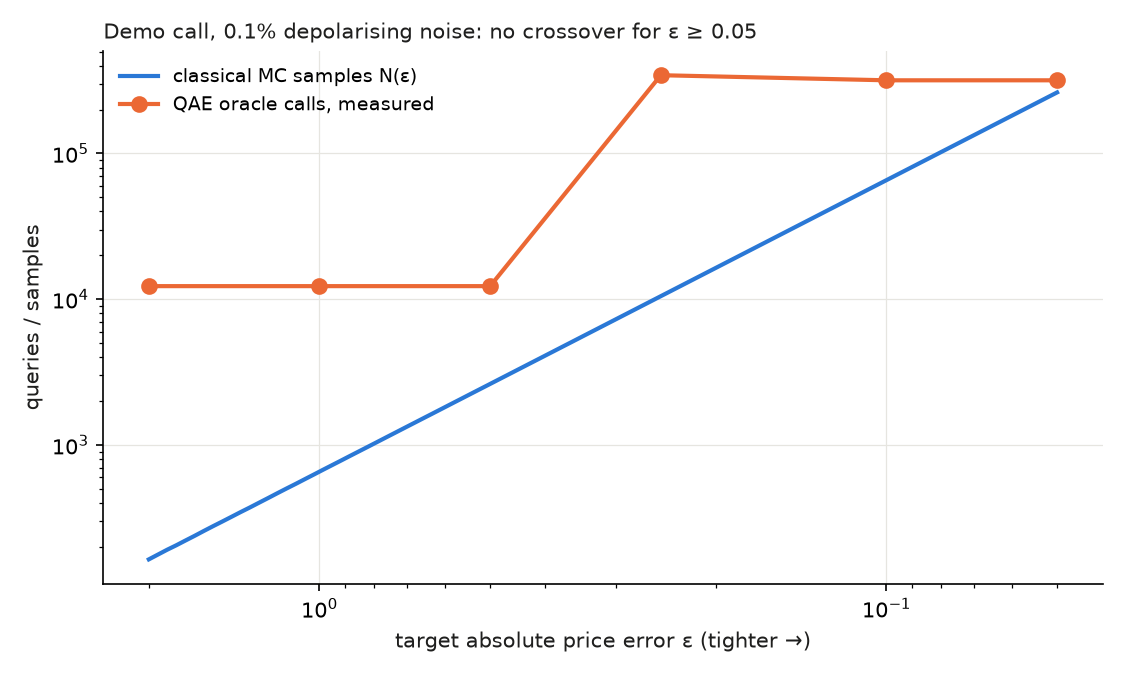
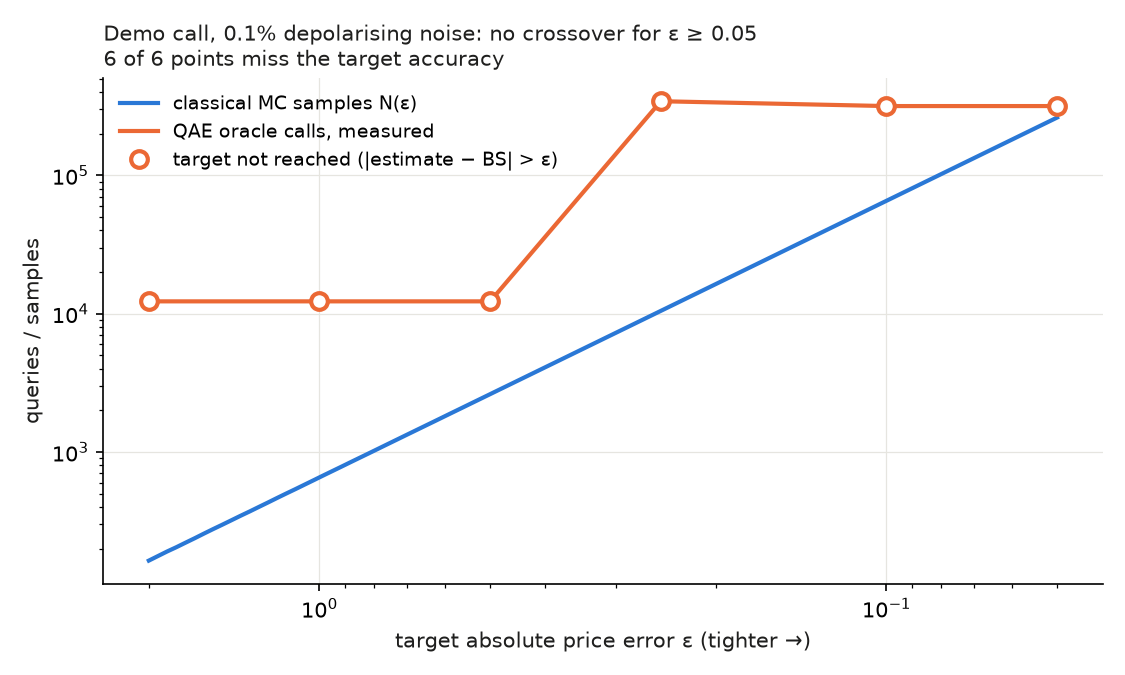
docs: mark crossover points that miss the target accuracy
Rerun the noisy-IAE grid recording estimate, CI, rounds and Grover powers.
IAE hit no cap: it stopped on its own CI criterion, and eps=0.1 and 0.05
share the same 3-round schedule (max power 149), hence identical 317,440
calls. Every point misses its target: |estimate - Black-Scholes| ~ 3.84
while the reported CI is +/-0.35 or tighter. Hollow markers and caption
flag this; the Key finding gains one bullet. Cache now written with LF.

diff --git a/scripts/crossover_figure.py b/scripts/crossover_figure.py
@@ -14,6 +14,7 @@ import csv
 import math
 import sys
 from pathlib import Path
+from typing import Any
 
 import matplotlib
 
@@ -21,8 +22,9 @@ matplotlib.use("Agg")
 import matplotlib.pyplot as plt  # noqa: E402
 import numpy as np  # noqa: E402
 
+import qrace.backend  # noqa: E402
 from qrace import AnalysisTarget, NoiseProfile, OptionSpec, QiskitBackend  # noqa: E402
-from qrace.classical import discounted_payoff_std  # noqa: E402
+from qrace.classical import discounted_payoff_std, reference_price  # noqa: E402
 from qrace.crossover import compute  # noqa: E402
 from qrace.pricing import build_problem  # noqa: E402
 
@@ -36,23 +38,58 @@ OPTION = OptionSpec(
 )
 
 
+class _RecordingIAE(qrace.backend.IterativeAmplitudeEstimation):  # type: ignore[misc]
+    """Keeps the last raw IAE result so the Grover power schedule can be cached."""
+
+    last: Any = None
+
+    def estimate(self, estimation_problem: Any) -> Any:
+        _RecordingIAE.last = super().estimate(estimation_problem)
+        return _RecordingIAE.last
+
+
 def simulate() -> None:
     """Run noisy IAE at every epsilon and write the cache."""
+    # shortcut: script-local patch to read IAE internals; move into EstimationResult if reused
+    qrace.backend.IterativeAmplitudeEstimation = _RecordingIAE  # type: ignore[misc]
+    reference = reference_price(OPTION)
     noise = NoiseProfile(kind="depolarizing", two_qubit_error=0.001)
     backend = QiskitBackend(seed=7)
     pricing = build_problem(OPTION)
     sigma = discounted_payoff_std(OPTION)
     IMG.mkdir(parents=True, exist_ok=True)
     with CACHE.open("w", newline="") as f:
-        writer = csv.writer(f)
-        writer.writerow(["epsilon", "qae_oracle_calls", "mc_samples"])
+        writer = csv.writer(f, lineterminator="\n")
+        writer.writerow(
+            [
+                "epsilon",
+                "qae_oracle_calls",
+                "mc_samples",
+                "noisy_estimate",
+                "ci_half_width",
+                "abs_error_vs_reference",
+                "iae_rounds",
+                "max_grover_power",
+            ]
+        )
         for eps in EPSILONS:
             target = AnalysisTarget(target_abs_error=eps, confidence=CONFIDENCE)
-            calls = backend.run_estimation(pricing, noise, target).oracle_calls
+            res = backend.run_estimation(pricing, noise, target)
+            powers = _RecordingIAE.last.powers
             samples = compute(sigma, target).classical_mc_samples
-            writer.writerow([eps, calls, samples])
+            row = [
+                eps,
+                res.oracle_calls,
+                samples,
+                round(res.estimate, 4),
+                round(res.error, 4),
+                round(abs(res.estimate - reference), 4),
+                len(powers) - 1,
+                max(powers),
+            ]
+            writer.writerow(row)
             f.flush()
-            print(f"eps={eps:<5}  QAE oracle calls={calls:>7}  MC samples={samples:>7}")
+            print(dict(zip(["eps", "calls", "mc", "est", "ci", "abs_err", "rounds", "kmax"], row)))
 
 
 def plot() -> None:
@@ -73,14 +110,28 @@ def plot() -> None:
 
     fig, ax = plt.subplots(figsize=(7.5, 4.5), dpi=150)
     ax.loglog(dense, n_dense, color=BLUE, lw=2, label="classical MC samples N(ε)")
-    ax.loglog(
-        eps, quantum, color=ORANGE, lw=2, marker="o", ms=7, label="QAE oracle calls, measured"
-    )
+    missed = [float(r["abs_error_vs_reference"]) > e for r, e in zip(rows, eps, strict=True)]
+    ax.loglog(eps, quantum, color=ORANGE, lw=2, label="QAE oracle calls, measured")
+    hit = [(e, q) for e, q, m in zip(eps, quantum, missed, strict=True) if not m]
+    miss = [(e, q) for e, q, m in zip(eps, quantum, missed, strict=True) if m]
+    if hit:
+        ax.plot(*zip(*hit, strict=True), "o", color=ORANGE, ms=7, label="target accuracy reached")
+    if miss:
+        ax.plot(
+            *zip(*miss, strict=True),
+            "o",
+            mfc="white",
+            mec=ORANGE,
+            mew=2,
+            ms=8,
+            label="target not reached (|estimate − BS| > ε)",
+        )
     ax.invert_xaxis()  # tighter accuracy to the right
     ax.set_xlabel("target absolute price error ε (tighter →)", color=INK)
     ax.set_ylabel("queries / samples", color=INK)
     ax.set_title(
-        f"Demo call, 0.1% depolarising noise: no crossover for ε ≥ {min(eps):g}",
+        f"Demo call, 0.1% depolarising noise: no crossover for ε ≥ {min(eps):g}\n"
+        f"{sum(missed)} of {len(eps)} points miss the target accuracy",
         color=INK,
         fontsize=10,
         loc="left",

diff --git a/README.md b/README.md
@@ -4,12 +4,13 @@
 
 > ### Key finding
 > For a European call (S = 100, K = 105, T = 1y, σ = 20%) priced to ±0.5 at 95% confidence, **quantum amplitude estimation is not advantageous today**:
-> - it needs **12,288 oracle calls** against **2,622 classical Monte Carlo samples**;
+> - it spends **12,288 oracle calls** against **2,622 classical Monte Carlo samples**, and still misses the target;
 > - meeting the target would require a two-qubit gate fidelity of **0.999983**; with a 0.1% depolarising error the noisy estimate is **11.87 ± 0.35** against a Black-Scholes price of **8.02**;
+> - the noisy run never reaches its target accuracy: at every ε from 2 down to 0.05 the estimate sits **≈ 3.84** above Black-Scholes while IAE reports a confidence interval of ±0.35 or tighter, because that interval captures sampling noise, not decoherence bias;
 > - the exact Shapley decomposition of the error budget shows that **decoherence dominates** every other stage (state loading, payoff encoding, QAE iterations).
 >
 > ![Measured QAE oracle calls vs classical Monte Carlo samples across target accuracy](docs/img/crossover.png)
-> *Measured noisy-IAE oracle calls never drop below Monte Carlo samples for ε from 2 down to 0.05, so there is no break-even in that range. Regenerate with `python scripts/crossover_figure.py` (cached; `--rerun` repeats the ~2 h simulation).*
+> *Measured noisy-IAE oracle calls stay above Monte Carlo samples for ε from 2 down to 0.05. Hollow markers: target not reached (|estimate − Black-Scholes| > ε), which applies to all six runs, so there is no valid break-even in that range. Regenerate with `python scripts/crossover_figure.py` (cached; `--rerun` repeats the ~2 h simulation).*
 >
 > **Why this matters for risk teams:** before investing in quantum pricing pilots, a bank needs a reproducible way to ask *"at what accuracy and hardware fidelity would this pay off?"*. qrace answers it with resource counts, required two-qubit fidelity and an error budget, for any option spec and noise profile.
 
